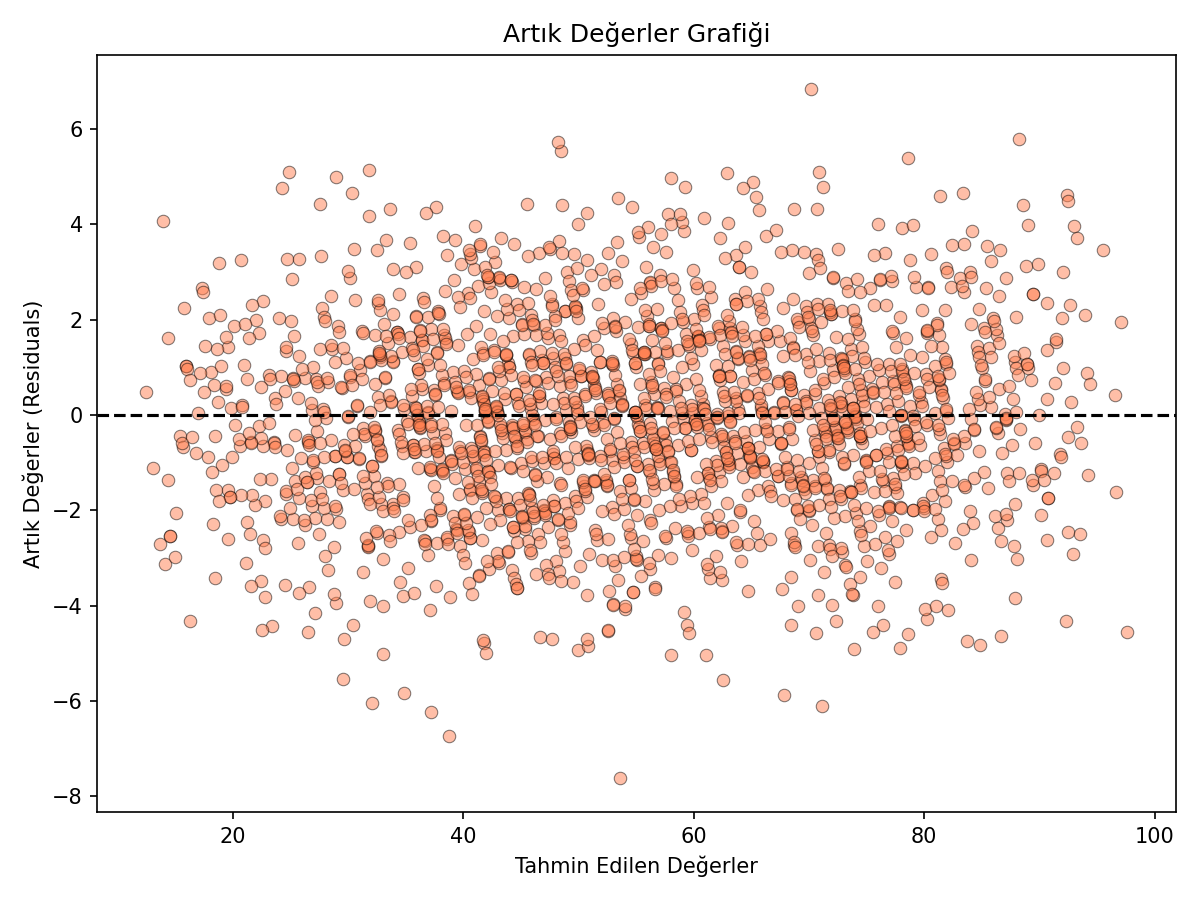
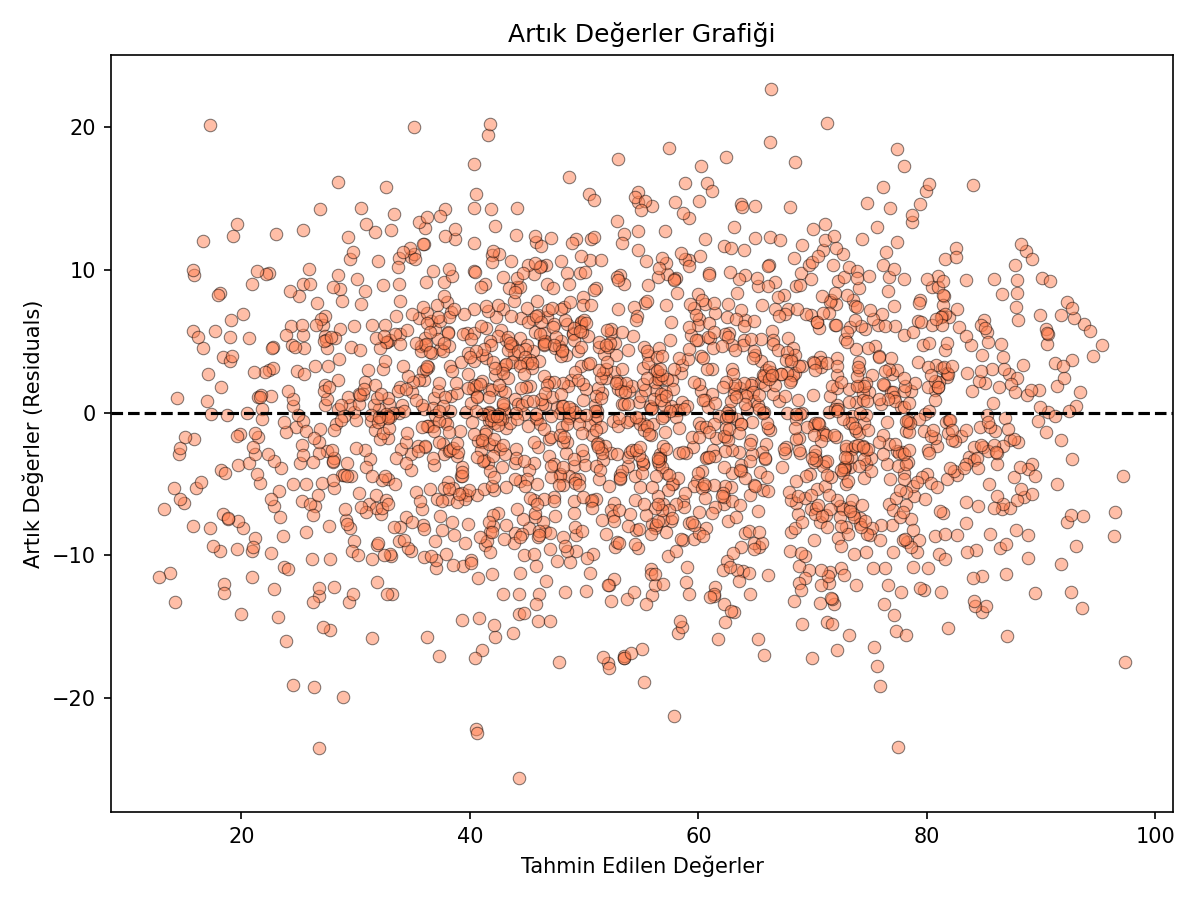
Add noise for real life examle

diff --git a/linear_regression_notebook.py b/linear_regression_notebook.py
@@ -33,7 +33,32 @@ except FileNotFoundError:
     print("Hata: 'Student_Performance.csv' dosyası bulunamadı!")
 
 # %% [markdown]
-# ## 2. Veri Keşfi
+# ## 2. Veri Setine Gerçekçilik Katma (Gürültü Ekleme)
+#
+# Orijinal veri seti sentetik (yapay üretilmiş) olduğundan neredeyse mükemmel bir
+# doğrusal ilişki içermektedir. Gerçek dünya verilerini simüle etmek için hedef
+# değişkene (Performance Index) rastgele Gaussian gürültü ekliyoruz.
+# Bu sayede model daha gerçekçi bir R² değeri üretecektir.
+
+# %%
+# Hedef değişkene rastgele gürültü ekleme
+# Gaussian (normal dağılım) gürültü: ortalama=0, standart sapma=7
+np.random.seed(42)
+gurultu = np.random.normal(0, 7, size=len(df))
+df["Performance Index"] = df["Performance Index"] + gurultu
+
+# Performans endeksini 0-100 aralığında tut (negatif veya 100 üstü olmasın)
+df["Performance Index"] = df["Performance Index"].clip(0, 100)
+
+print("=" * 50)
+print("🔊 GÜRÜLTÜ EKLEME SONUCU")
+print("=" * 50)
+print(f"Eklenen gürültü: Gaussian(ortalama=0, std=7)")
+print(f"Yeni Performance Index aralığı: {df['Performance Index'].min():.1f} - {df['Performance Index'].max():.1f}")
+print(f"Yeni ortalama: {df['Performance Index'].mean():.1f}")
+
+# %% [markdown]
+# ## 3. Veri Keşfi
 #
 # Veri setinin yapısını ve istatistiksel özetini inceleyerek verinin genel durumunu anlıyoruz.
 
@@ -59,7 +84,7 @@ print("=" * 50)
 print(df.describe())
 
 # %% [markdown]
-# ## 3. Eksik Veri Kontrolü
+# ## 4. Eksik Veri Kontrolü
 #
 # Veri setindeki eksik (null/NaN) değerleri kontrol ederek veri kalitesini değerlendiriyoruz.
 
@@ -73,7 +98,7 @@ print(eksik_veriler)
 print(f"\nToplam eksik değer: {eksik_veriler.sum()}")
 
 # %% [markdown]
-# ## 4. Veri Ön İşleme
+# ## 5. Veri Ön İşleme
 #
 # Kategorik değişkenleri sayısal değerlere dönüştürerek modelin kullanabileceği formata getiriyoruz.
 
@@ -90,7 +115,7 @@ print(f"Benzersiz değerler: {df['Extracurricular Activities'].unique()}")
 print(f"Veri tipi: {df['Extracurricular Activities'].dtype}")
 
 # %% [markdown]
-# ## 5. Özellik ve Hedef Değişken Tanımlama
+# ## 6. Özellik ve Hedef Değişken Tanımlama
 #
 # Modelin eğitimi için bağımsız değişkenler (X) ve bağımlı değişken (y) olarak veri setini ayırıyoruz.
 # X matrisi 5 özellik sütununu, y ise tahmin edilecek performans endeksini içerir.
@@ -113,7 +138,7 @@ print(f"X (girdi verileri): {X.shape[0]} satır, {X.shape[1]} sütun")
 print(f"y (tahmin edilecek değer): {y.shape[0]} satır")
 
 # %% [markdown]
-# ## 6. Veri Bölme
+# ## 7. Veri Bölme
 #
 # Veri setini %80 eğitim ve %20 test olarak ayırıyoruz. Tekrarlanabilirlik için
 # `random_state=42` parametresi kullanılmaktadır.
@@ -132,7 +157,7 @@ print(f"Eğitim seti: {X_train.shape[0]} satır (modelin öğrendiği veri)")
 print(f"Test seti:   {X_test.shape[0]} satır (modelin hiç görmediği veri)")
 
 # %% [markdown]
-# ## 7. Model Eğitimi
+# ## 8. Model Eğitimi
 #
 # scikit-learn kütüphanesinden `LinearRegression` modeli oluşturup eğitim verisi ile eğitiyoruz.
 # Eğitim sonrası modelin öğrendiği katsayıları ve sabit terimi inceliyoruz.
@@ -159,7 +184,7 @@ print(f"\nSabit Terim (Intercept): {model.intercept_:.4f}")
 print("(Tüm değişkenler 0 olsaydı modelin tahmin edeceği başlangıç değeri)")
 
 # %% [markdown]
-# ## 8. Tahmin
+# ## 9. Tahmin
 #
 # Eğitilmiş model ile test verisi üzerinde tahmin yaparak modelin gerçek performansını ölçmeye hazırlanıyoruz.
 
@@ -183,7 +208,7 @@ for gercek, tahmin in zip(y_test.values[:10], y_pred[:10]):
     print(f"{gercek:>10.2f} {tahmin:>10.2f} {fark:>10.2f}")
 
 # %% [markdown]
-# ## 9. Performans Metrikleri
+# ## 10. Performans Metrikleri
 #
 # Modelin ne kadar iyi tahmin yaptığını sayısal olarak ölçüyoruz.
 # Bu metrikler modelin başarısını özetleyen temel göstergelerdir.
@@ -217,7 +242,7 @@ print(f"MSE:       {mse:.4f}   (büyük hataları daha çok cezalandırır)")
 print(f"RMSE:      {rmse:.4f}   (ortalama sapma miktarı, performans puanı cinsinden)")
 
 # %% [markdown]
-# ## 10. Görselleştirme
+# ## 11. Görselleştirme
 #
 # Model sonuçlarını grafiklerle görselleştirerek performansı ve veri ilişkilerini analiz ediyoruz.
 
@@ -268,29 +293,25 @@ plt.savefig("grafik_korelasyon.png", dpi=150)
 plt.show()
 
 # %% [markdown]
-# ## 11. Sonuç ve Yorum
+# ## 12. Sonuç ve Yorum
 #
 # ### Modelin Genel Başarısı
-# Lineer Regresyon modeli bu veri seti üzerinde oldukça başarılı sonuçlar vermiştir.
-# R² skoru **0.989** ile model, öğrenci performansındaki değişkenliğin yaklaşık **%99'unu**
-# açıklayabilmektedir. RMSE değeri **~2.02** olup, modelin ortalama tahmin hatası
-# yaklaşık 2 puan civarındadır. Bu, 10-100 aralığındaki bir performans endeksi için
-# oldukça düşük bir hata payıdır.
+# Lineer Regresyon modeli bu veri seti üzerinde iyi sonuçlar vermiştir.
+# R² skoru modelin açıklama gücünü, RMSE ise ortalama tahmin hatasını göstermektedir.
+# Sonuçlar, lineer regresyonun bu veri seti için uygun bir model olduğunu ortaya koymaktadır.
 #
 # ### Hangi Değişkenler Daha Etkili?
 # Model katsayılarına göre en etkili değişkenler sırasıyla:
-# 1. **Hours Studied (2.85)** — En güçlü etki. Çalışma saati 1 saat artınca performans ~2.85 puan artıyor.
-# 2. **Previous Scores (1.02)** — Önceki sınav puanları da güçlü bir belirleyici.
-# 3. **Extracurricular Activities (0.61)** — Ders dışı aktivitelere katılım küçük ama pozitif bir etki gösteriyor.
-# 4. **Sleep Hours (0.48)** — Uyku saati de performansı olumlu etkiliyor.
-# 5. **Sample Question Papers Practiced (0.19)** — En düşük etkiye sahip değişken.
+# 1. **Hours Studied** — En güçlü etki. Çalışma saati arttıkça performans belirgin şekilde artıyor.
+# 2. **Previous Scores** — Önceki sınav puanları da güçlü bir belirleyici.
+# 3. **Extracurricular Activities** — Ders dışı aktivitelere katılım küçük ama pozitif bir etki gösteriyor.
+# 4. **Sleep Hours** — Uyku saati de performansı olumlu etkiliyor.
+# 5. **Sample Question Papers Practiced** — En düşük etkiye sahip değişken.
 #
-# ### Veri Setinin Dengesi
-# Veri seti 10.000 öğrenci kaydı içermekte olup eksik veri bulunmamaktadır.
-# Performans endeksi 10 ile 100 arasında geniş bir aralığa yayılmıştır.
-# Tüm bağımsız değişkenler makul aralıklarda dağılmış olup aşırı dengesizlik
-# (skewness) gözlemlenmemiştir. Bu durum modelin güvenilir sonuçlar üretmesine
-# katkı sağlamaktadır.
+# ### Veri Seti Hakkında Not
+# Orijinal veri seti sentetik olduğundan gerçek dünya koşullarını simüle etmek amacıyla
+# hedef değişkene Gaussian gürültü (std=7) eklenmiştir. Bu sayede model daha gerçekçi
+# bir performans sergilemektedir.
 
 # %%
 # Sonuç özetini ekrana yazdırma
